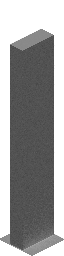
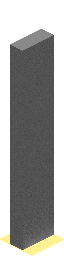
added simple dry dirt looking tile and started on getting cursor to draw

Changed region(s): [[0.2812, 0.9062, 1.0, 1.0], [0.0, 0.9062, 0.25, 0.9688]]

diff --git a/src/gameRender/DrawMapWest.java b/src/gameRender/DrawMapWest.java
@@ -34,6 +34,9 @@ public class DrawMapWest implements IsoCanvas.DrawMap {
 		Tile tile;
 		Point tilePos;
 		Point entityPos;
+		Point cursorPos;
+		int cx = 1;
+		int cy = 1;
 		int tX;
 		int tY;
 		int eX;
@@ -46,6 +49,10 @@ public class DrawMapWest implements IsoCanvas.DrawMap {
 				tY = (tilePos.y);
 				//System.out.println("DrawMapWest.draw current tile : " + tile );
 				tile.draw(g2d, tX,tY);
+				if(cx==x && cy==y){
+					cursorPos = toIso(x,y);
+					cursor.draw(g2d, cursorPos.x, cursorPos.y);
+				}
 				if(entity != null){
 					eX = entity.getLocation().x;
 					eY = entity.getLocation().y;

diff --git a/src/gameRender/DrawMapNorth.java b/src/gameRender/DrawMapNorth.java
@@ -42,6 +42,9 @@ public class DrawMapNorth implements IsoCanvas.DrawMap{
 		Tile tile;
 		Point tilePos;
 		Point entityPos;
+		Point cursorPos;
+		int cx = 1;
+		int cy = 0;
 		
 		int tX;
 		int tY;
@@ -56,6 +59,10 @@ public class DrawMapNorth implements IsoCanvas.DrawMap{
 				tY = (tilePos.y);
 				//System.out.println("DrawMapNorth.draw current tile : " + tile );
 				tile.draw(g2d, tX,tY);
+				if(cx==x && cy==y){
+					cursorPos = toIso(x,y);
+					cursor.draw(g2d, cursorPos.x, cursorPos.y);
+				}
 				if(entity != null){
 					eX = entity.getLocation().x;
 					eY = entity.getLocation().y;

diff --git a/src/tile/TileMultiton.java b/src/tile/TileMultiton.java
@@ -28,7 +28,7 @@ public class TileMultiton {
 			switch(type){
 			case FLOOR: tiles.put(type, new FloorTile(
 					new File("src" + File.separator + "tile" +
-							File.separator + "tile.png"),'f'));
+							File.separator + "tileD1.png"),'f'));
 				break;
 			case BLUE:  tiles.put(type , new BlueTile(
 					new File("src" + File.separator + "tile" +

diff --git a/src/gameWorld/UnitCursor.java b/src/gameWorld/UnitCursor.java
@@ -18,7 +18,7 @@ import javax.imageio.ImageIO;
  */
 public class UnitCursor extends Unit{
 	private BufferedImage img;
-	private float alpha_level = 0.2f;
+	private float alpha_level = 0.4f;
 	public UnitCursor(Point loc, int ID) {
 		super(loc, ID, null);
 		try {
